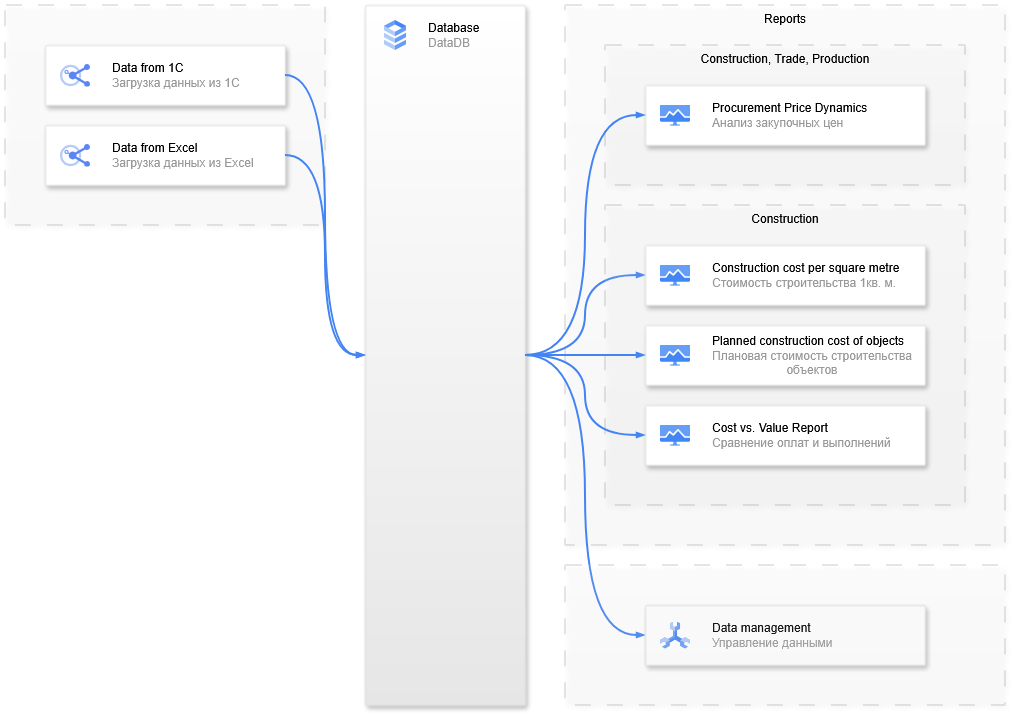
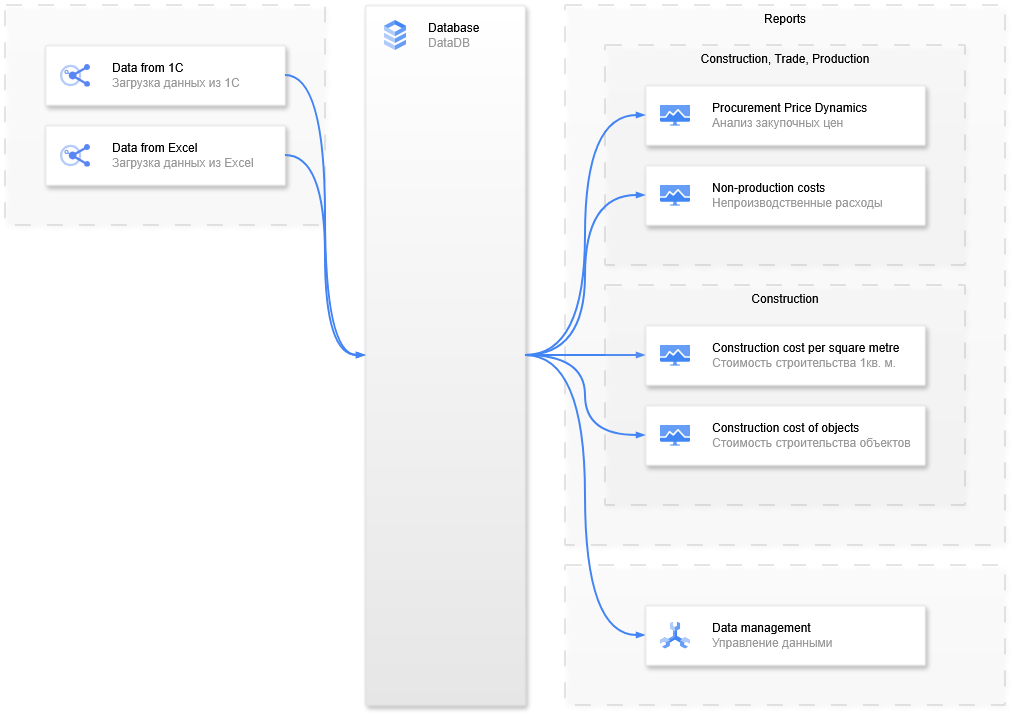
Add NonProductionCosts

diff --git a/Reports/Infrastructure/Repositories/MSSql/MSSqlRepository.cs b/Reports/Infrastructure/Repositories/MSSql/MSSqlRepository.cs
@@ -92,5 +92,30 @@ namespace Reports.Infrastructure.Repositories.MSSql
                             "LEFT JOIN TotalFloorAreas ON CostPerSquareMeter.Property = TotalFloorAreas.Property";
             return await _dbConnection.QueryAsync<CostPerSquareMeter>(sql);
         }
+
+        public async Task<IEnumerable<NonProductionCosts>> NonProductionCostsAsync()
+        {
+            string sql = "WITH NonProductionCosts AS (SELECT SUM(PurchasePayments.Amount) AS Amount, " +
+                                "YEAR(PurchasePayments.Date) AS [Year], MONTH(PurchasePayments.Date) AS [Month] " +
+                            "FROM PurchasePayments " +
+                            "LEFT JOIN ObjectOfSaleInPurchasePayments ON PurchasePayments.DocumentId = ObjectOfSaleInPurchasePayments.DocumentId " +
+                            "WHERE ObjectOfSaleInPurchasePayments.Property IS NULL AND PurchasePayments.CashFlowItemId != '942e3217-065d-11f1-8ad0-345a60ea423c' " +
+                            "AND PurchasePayments.CashFlowItemId != '697d9306-7d1d-11ed-93f4-a85e452bf5ea' AND PurchasePayments.CashFlowItemId != '71512e7f-065a-11f1-8ad0-345a60ea423c' " +
+                            "GROUP BY YEAR(PurchasePayments.Date), MONTH(PurchasePayments.Date)), " +
+                         "ProductionCosts AS (SELECT SUM(PurchasePayments.Amount) AS Amount, YEAR(PurchasePayments.Date) AS [Year], " +
+                                "MONTH(PurchasePayments.Date) AS [Month] " +
+                            "FROM PurchasePayments " +
+                            "LEFT JOIN ObjectOfSaleInPurchasePayments ON PurchasePayments.DocumentId = ObjectOfSaleInPurchasePayments.DocumentId " +
+                            "WHERE ObjectOfSaleInPurchasePayments.Property IS NOT NULL AND PurchasePayments.CashFlowItemId != '71512e7f-065a-11f1-8ad0-345a60ea423c' " +
+                            "GROUP BY YEAR(PurchasePayments.Date), MONTH(PurchasePayments.Date)) " +
+                         
+                         "SELECT NonProductionCosts.Amount AS NonProductionAmount, ProductionCosts.Amount AS ProductionAmount, " +
+                                "NonProductionCosts.[Year], NonProductionCosts.[Month] " +
+                            "FROM NonProductionCosts " +
+                            "INNER JOIN ProductionCosts ON NonProductionCosts.[Year] = ProductionCosts.[Year] " +
+                                "AND NonProductionCosts.[Month] = ProductionCosts.[Month] " +
+                            "ORDER BY NonProductionCosts.[Year], NonProductionCosts.[Month]";
+            return await _dbConnection.QueryAsync<NonProductionCosts>(sql);
+        }
     }
 }

diff --git a/Reports/Presentation/Controllers/ReportsController.cs b/Reports/Presentation/Controllers/ReportsController.cs
@@ -23,16 +23,16 @@ namespace Reports.Presentation.Controllers
             return File(fileBytes, contentType, fileName);
         }
 
-        [HttpGet("CostVsValueReport")]
-        public async Task<IActionResult> CostVsValueReport()
-        {
-            var costVsValue = await _reportsService.CostVsValueAsync();
-            var fileBytes = _exportingReportsToExcel.Browse(costVsValue);
-            string fileName = "Browse.xlsx";
-            string contentType = "application/octet-stream";
+        //[HttpGet("CostVsValueReport")]
+        //public async Task<IActionResult> CostVsValueReport()
+        //{
+        //    var costVsValue = await _reportsService.CostVsValueAsync();
+        //    var fileBytes = _exportingReportsToExcel.Browse(costVsValue);
+        //    string fileName = "Browse.xlsx";
+        //    string contentType = "application/octet-stream";
 
-            return File(fileBytes, contentType, fileName);
-        }
+        //    return File(fileBytes, contentType, fileName);
+        //}
 
         [HttpGet("ConstructionCost")]
         public async Task<IActionResult> ConstructionCost()
@@ -50,6 +50,17 @@ namespace Reports.Presentation.Controllers
         {
             var costPerSquareMeter = await _reportsService.CostPerSquareMeterAsync();
             var fileBytes = _exportingReportsToExcel.Browse(costPerSquareMeter);
+            string fileName = "Browse.xlsx";
+            string contentType = "application/octet-stream";
+
+            return File(fileBytes, contentType, fileName);
+        }
+
+        [HttpGet("NonProductionCosts")]
+        public async Task<IActionResult> NonProductionCosts()
+        {
+            var nonProductionCosts = await _reportsService.NonProductionCostsAsync();
+            var fileBytes = _exportingReportsToExcel.Browse(nonProductionCosts);
             string fileName = "Browse.xlsx";
             string contentType = "application/octet-stream";
 

diff --git a/DataManagement/Infrastructure/Repositories/MSSql/MSSqlRepository.cs b/DataManagement/Infrastructure/Repositories/MSSql/MSSqlRepository.cs
@@ -19,7 +19,8 @@ namespace DataManagement.Infrastructure.Repositories.MSSql
                             "WHERE MoreInformations.ValueType LIKE N'%СтатьиЗатрат%') " +
 
                          "SELECT PurchasePayments.DocumentId, PurchasePayments.ContractId, PurchasePayments.Date, PurchasePayments.Amount, PaymentPurpose, " +
-                                "CashFlowItems.Name AS CashFlowItem, Property.Name AS Property, CostItem.Name AS CostItem, Contractors.Name AS Contractor " +
+                                "CashFlowItems.Name AS CashFlowItem, Property.Name AS Property, CostItem.Name AS CostItem, Contractors.Name AS Contractor, " +
+                                "PurchasePayments.TypeOperation " +
                             "FROM PurchasePayments " +
                             "LEFT JOIN CashFlowItems ON PurchasePayments.CashFlowItemId = CashFlowItems.CashFlowItemId " +
                             "LEFT JOIN Contracts ON PurchasePayments.ContractId = Contracts.ContractId " +
@@ -28,7 +29,7 @@ namespace DataManagement.Infrastructure.Repositories.MSSql
                             "LEFT JOIN CostItem ON PaymentsDetails.InvoiceId = CostItem.ObjectId " +
                             "LEFT JOIN Contractors ON Contracts.ContractorId = Contractors.ContractorId " +
                             "WHERE NOT EXISTS ( SELECT * FROM ObjectOfSaleInPurchasePayments WHERE ObjectOfSaleInPurchasePayments.DocumentId = PurchasePayments.DocumentId) " +
-                            "AND YEAR(PurchasePayments.Date) > 2025 " +
+                            //"AND YEAR(PurchasePayments.Date) > 2025 " +
                             "ORDER BY PurchasePayments.Date";
 
             return await _dbConnection.QueryAsync<AddObjectOfSaleInPurchasePayment>(sql);

diff --git a/DataFrom1C/Infrastructure/DataSource/OneC/GetData1C.cs b/DataFrom1C/Infrastructure/DataSource/OneC/GetData1C.cs
@@ -46,7 +46,7 @@ namespace DataFrom1C.Infrastructure.DataSource.OneC
         public async Task<IEnumerable<PurchasePayment>> PurchasePaymentAsync() // Списание с расчетного счета
         {
             var debitToCurrentAccountUrl = ApiUrl + "Document_СписаниеСРасчетногоСчета?$format=json"
-                + "&$select=Ref_Key,Date,СуммаДокумента,ДоговорКонтрагента_Key,НазначениеПлатежа,СтатьяДвиженияДенежныхСредств_Key"
+                + "&$select=Ref_Key,Date,СуммаДокумента,ДоговорКонтрагента_Key,НазначениеПлатежа,СтатьяДвиженияДенежныхСредств_Key,ВидОперации"
                 + "&$filter=(DeletionMark eq false) and (Posted eq true)";
             using HttpResponseMessage debitToCurrentAccountResponse = await httpClient.GetAsync(debitToCurrentAccountUrl);
             var debitToCurrentAccount = await debitToCurrentAccountResponse.Content.ReadFromJsonAsync<DebitToCurrentAccount>();
@@ -57,7 +57,8 @@ namespace DataFrom1C.Infrastructure.DataSource.OneC
                 Amount = x.Amount,
                 ContractId = x.ContractId,
                 PaymentPurpose = x.PaymentPurpose,
-                CashFlowItemId = x.CashFlowItemId
+                CashFlowItemId = x.CashFlowItemId,
+                TypeOperation = x.TypeOperation
             });
         }
 

diff --git a/DataFrom1C/Infrastructure/Repositories/MSSql/Migrations/20260803174940_AddConstructionCompletionCertificate.Designer.cs b/DataFrom1C/Infrastructure/Repositories/MSSql/Migrations/20260803174940_AddConstructionCompletionCertificate.Designer.cs
@@ -4,6 +4,7 @@ using DataFrom1C.Infrastructure.Repositories;
 using Microsoft.EntityFrameworkCore;
 using Microsoft.EntityFrameworkCore.Infrastructure;
 using Microsoft.EntityFrameworkCore.Metadata;
+using Microsoft.EntityFrameworkCore.Migrations;
 using Microsoft.EntityFrameworkCore.Storage.ValueConversion;
 
 #nullable disable
@@ -11,9 +12,11 @@ using Microsoft.EntityFrameworkCore.Storage.ValueConversion;
 namespace DataFrom1C.Infrastructure.Repositories.MSSql.Migrations
 {
     [DbContext(typeof(DataContext))]
-    partial class DataContextModelSnapshot : ModelSnapshot
+    [Migration("20260803174940_AddConstructionCompletionCertificate")]
+    partial class AddConstructionCompletionCertificate
     {
-        protected override void BuildModel(ModelBuilder modelBuilder)
+        /// <inheritdoc />
+        protected override void BuildTargetModel(ModelBuilder modelBuilder)
         {
 #pragma warning disable 612, 618
             modelBuilder
@@ -250,9 +253,6 @@ namespace DataFrom1C.Infrastructure.Repositories.MSSql.Migrations
                         .HasColumnType("datetime2");
 
                     b.Property<string>("PaymentPurpose")
-                        .HasColumnType("nvarchar(max)");
-
-                    b.Property<string>("TypeOperation")
                         .HasColumnType("nvarchar(max)");
 
                     b.HasKey("DocumentId");

diff --git a/DataFrom1C/Infrastructure/Repositories/MSSql/Migrations/20260803174940_AddConstructionCompletionCertificate.cs b/DataFrom1C/Infrastructure/Repositories/MSSql/Migrations/20260803174940_AddConstructionCompletionCertificate.cs
@@ -1,0 +1,36 @@
+using System;
+using Microsoft.EntityFrameworkCore.Migrations;
+
+#nullable disable
+
+namespace DataFrom1C.Infrastructure.Repositories.MSSql.Migrations
+{
+    /// <inheritdoc />
+    public partial class AddConstructionCompletionCertificate : Migration
+    {
+        /// <inheritdoc />
+        protected override void Up(MigrationBuilder migrationBuilder)
+        {
+            migrationBuilder.CreateTable(
+                name: "ConstructionCompletionCertificates",
+                columns: table => new
+                {
+                    RowId = table.Column<Guid>(type: "uniqueidentifier", nullable: false),
+                    ContractId = table.Column<string>(type: "nvarchar(max)", nullable: true),
+                    StartDate = table.Column<DateTime>(type: "datetime2", nullable: false),
+                    EndDate = table.Column<DateTime>(type: "datetime2", nullable: false)
+                },
+                constraints: table =>
+                {
+                    table.PrimaryKey("PK_ConstructionCompletionCertificates", x => x.RowId);
+                });
+        }
+
+        /// <inheritdoc />
+        protected override void Down(MigrationBuilder migrationBuilder)
+        {
+            migrationBuilder.DropTable(
+                name: "ConstructionCompletionCertificates");
+        }
+    }
+}

diff --git a/DataManagement/Presentation/Controllers/DataManagementControllers.cs b/DataManagement/Presentation/Controllers/DataManagementControllers.cs
@@ -33,15 +33,15 @@ namespace DataManagement.Presentation.Controllers
             return File(fileBytes, contentType, fileName);
         }
 
-        [HttpGet("AddObjectOfSaleInPurchaseInvoice")]
-        public async Task<IActionResult> AddObjectOfSaleInPurchaseInvoiceAsync()
-        {
-            var addObjectOfSaleInPurchaseInvoice = await _dataManagementService.AddObjectOfSaleInPurchaseInvoiceAsync();
-            var fileBytes = _exportingReportsToExcel.Browse(addObjectOfSaleInPurchaseInvoice);
-            string fileName = "Browse.xlsx";
-            string contentType = "application/octet-stream";
+        //[HttpGet("AddObjectOfSaleInPurchaseInvoice")]
+        //public async Task<IActionResult> AddObjectOfSaleInPurchaseInvoiceAsync()
+        //{
+        //    var addObjectOfSaleInPurchaseInvoice = await _dataManagementService.AddObjectOfSaleInPurchaseInvoiceAsync();
+        //    var fileBytes = _exportingReportsToExcel.Browse(addObjectOfSaleInPurchaseInvoice);
+        //    string fileName = "Browse.xlsx";
+        //    string contentType = "application/octet-stream";
 
-            return File(fileBytes, contentType, fileName);
-        }
+        //    return File(fileBytes, contentType, fileName);
+        //}
     }
 }

diff --git a/DataFrom1C/Infrastructure/Repositories/MSSql/Migrations/20260804134628_AddTypeOperation.Designer.cs b/DataFrom1C/Infrastructure/Repositories/MSSql/Migrations/20260804134628_AddTypeOperation.Designer.cs
@@ -4,6 +4,7 @@ using DataFrom1C.Infrastructure.Repositories;
 using Microsoft.EntityFrameworkCore;
 using Microsoft.EntityFrameworkCore.Infrastructure;
 using Microsoft.EntityFrameworkCore.Metadata;
+using Microsoft.EntityFrameworkCore.Migrations;
 using Microsoft.EntityFrameworkCore.Storage.ValueConversion;
 
 #nullable disable
@@ -11,9 +12,11 @@ using Microsoft.EntityFrameworkCore.Storage.ValueConversion;
 namespace DataFrom1C.Infrastructure.Repositories.MSSql.Migrations
 {
     [DbContext(typeof(DataContext))]
-    partial class DataContextModelSnapshot : ModelSnapshot
+    [Migration("20260804134628_AddTypeOperation")]
+    partial class AddTypeOperation
     {
-        protected override void BuildModel(ModelBuilder modelBuilder)
+        /// <inheritdoc />
+        protected override void BuildTargetModel(ModelBuilder modelBuilder)
         {
 #pragma warning disable 612, 618
             modelBuilder

diff --git a/DataFrom1C/Infrastructure/Repositories/MSSql/Migrations/20260804134628_AddTypeOperation.cs b/DataFrom1C/Infrastructure/Repositories/MSSql/Migrations/20260804134628_AddTypeOperation.cs
@@ -1,0 +1,28 @@
+using Microsoft.EntityFrameworkCore.Migrations;
+
+#nullable disable
+
+namespace DataFrom1C.Infrastructure.Repositories.MSSql.Migrations
+{
+    /// <inheritdoc />
+    public partial class AddTypeOperation : Migration
+    {
+        /// <inheritdoc />
+        protected override void Up(MigrationBuilder migrationBuilder)
+        {
+            migrationBuilder.AddColumn<string>(
+                name: "TypeOperation",
+                table: "PurchasePayments",
+                type: "nvarchar(max)",
+                nullable: true);
+        }
+
+        /// <inheritdoc />
+        protected override void Down(MigrationBuilder migrationBuilder)
+        {
+            migrationBuilder.DropColumn(
+                name: "TypeOperation",
+                table: "PurchasePayments");
+        }
+    }
+}

diff --git a/DataFromExcel/Presentation/Controllers/UpdateDataController.cs b/DataFromExcel/Presentation/Controllers/UpdateDataController.cs
@@ -13,7 +13,7 @@ namespace DataFromExcel.Presentation.Controllers
         {
             await _updateDataService.ObjectOfSaleInPurchasePaymentAsync();
             await _updateDataService.ObjectOfSaleInContractAsync();
-            await _updateDataService.ObjectOfSaleInPurchaseInvoiceAsync();
+            //await _updateDataService.ObjectOfSaleInPurchaseInvoiceAsync();
             await _updateDataService.TotalFloorAreaAsync();
             return NoContent();
         }

diff --git a/DataFrom1C/Domain/ConstructionCompletionCertificate.cs b/DataFrom1C/Domain/ConstructionCompletionCertificate.cs
@@ -1,7 +1,11 @@
-namespace DataFrom1C.Domain
+using System.ComponentModel.DataAnnotations;
+
+namespace DataFrom1C.Domain
 {
     public class ConstructionCompletionCertificate
     {
+        [Key]
+        public Guid RowId { get; set; }
         public string ContractId { get; set; }
         public DateTime StartDate { get; set; }
         public DateTime EndDate { get; set; }

diff --git a/DataFrom1C/Infrastructure/DataSource/Models/DebitToCurrentAccount/DebitToCurrentAccountValue.cs b/DataFrom1C/Infrastructure/DataSource/Models/DebitToCurrentAccount/DebitToCurrentAccountValue.cs
@@ -22,5 +22,8 @@ namespace DataFrom1C.Infrastructure.DataSource.Models.DebitToCurrentAccount
 
         [JsonPropertyName("РасшифровкаПлатежа")]
         public PaymentExplanation[] PaymentsExplanation { get; set; }
+
+        [JsonPropertyName("ВидОперации")]
+        public string TypeOperation { get; set; }
     }
 }
